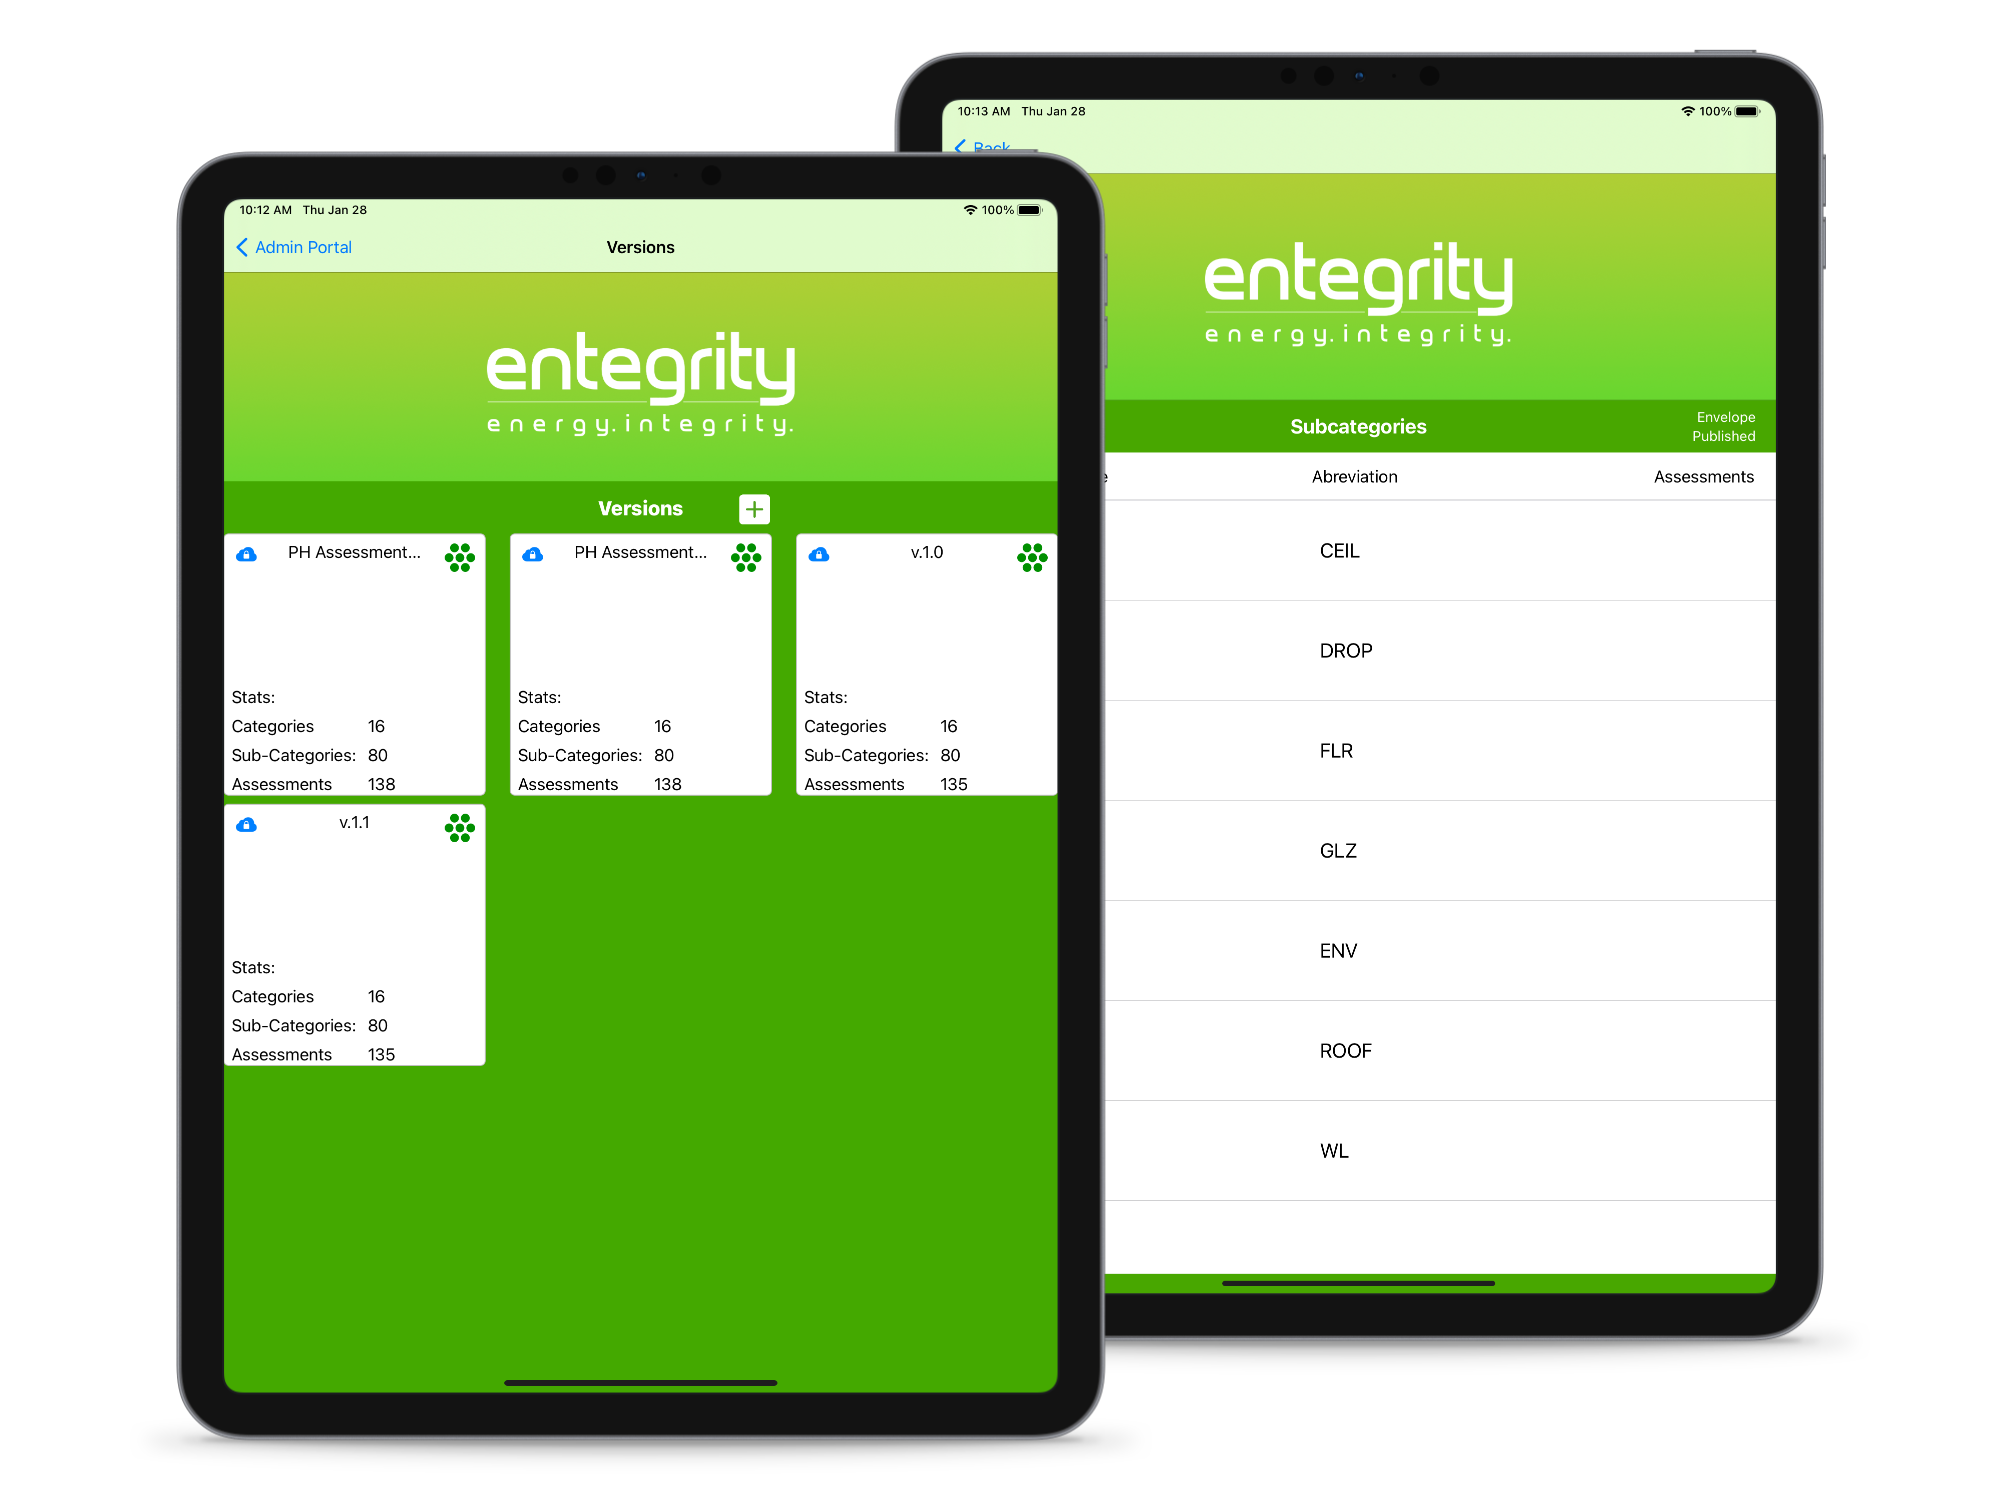
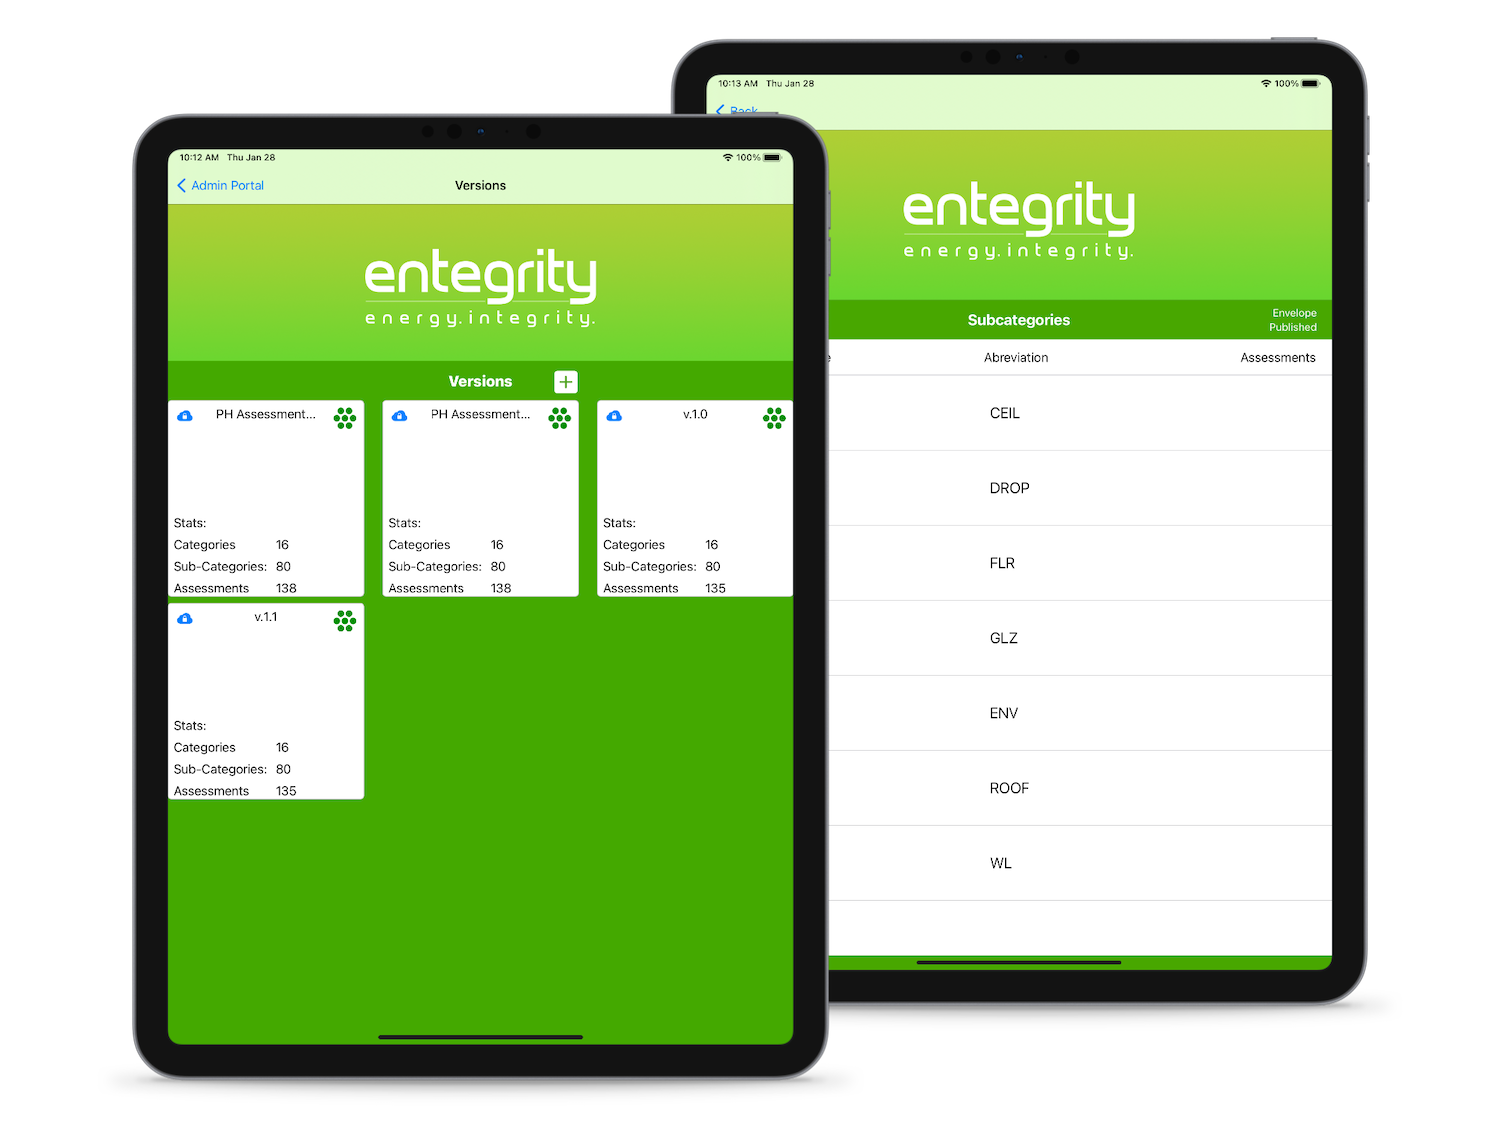
Minor updates to developer page and reduce size of images

diff --git a/public/template/developer.html b/public/template/developer.html
@@ -29,11 +29,18 @@
     <div class="row pr-4 pl-4 pt-5">
         <div class="col-lg-10">
             <h1>Education</h1>
+            <h3>University of Central Arkansas</h3>
             <ul>
-                <li>University of Central Arkansas, Conway, AR</li>
+                <li>Conway, AR</li>
                 <li>Anticipated Graduation: <em>May 2021</em></li>
-                <li>Bachelor of Science</li>
-                <li>Major: Computer Science &#8212; GPA: 3.919 &#8212; Senior</li>
+                <li>Bachelor of Science &#8212; Computer Science &#8212; GPA: 3.921 &#8212; Senior</li>
+            </ul>
+
+            <h3>Arkansas Coding Academy</h3>
+            <ul>
+                <li>Conway, AR</li>
+                <li>Graduated December 2020</li>
+                <li>Course &#8212; Java & SQL Full Stack</li>
             </ul>
         </div>
         <div class="col-lg-2">
@@ -55,26 +62,28 @@
                 <li>Swift</li>
                 <li>C++</li>
                 <li>Objective-C</li>
-                <li>CSS</li>
                 <li>HTML</li>
+                <li>CSS</li>
+                <li>SCSS</li>
                 <li>JavaScript</li>
                 <li>PHP</li>
                 <li>MySQL</li>
                 <li>Python</li>
+                <li>Dart</li>
+                <li>Kotlin</li>
             </ul>
         </div>
         <div class="col-lg-6">
-            <h2>Environments</h2>
+            <h2>Frameworks</h2>
             <ul>
-                <li>Xcode</li>
-                <li>JetBrains IntelliJ Ultimate</li>
-                <li>Eclipse</li>
                 <li>Apache HTTP Server</li>
                 <li>Apache Tomcat</li>
+                <li>Flutter</li>
                 <li>NodeJS</li>
                 <li>AngularJS</li>
                 <li>JQuery</li>
                 <li>Bootstrap</li>
+                <li>RESTful Web Services</li>
             </ul>
         </div>
     </div>
@@ -83,14 +92,20 @@
         <div class="col-lg-6">
             <h2>Tools & Services</h2>
             <ul>
+                <li>Xcode</li>
+                <li>JetBrains IntelliJ Ultimate</li>
+                <li>Eclipse</li>
+                <li>CocoaPods</li>
                 <li>Git</li>
                 <li>GitHub</li>
                 <li>SSH</li>
                 <li>FTP</li>
                 <li>Linux</li>
+                <li>Maven</li>
                 <li>AWS Elastic Beanstalk</li>
                 <li>Google Firebase</li>
                 <li>Google Cloud Platform Compute Engine</li>
+                <li>Postman</li>
                 <li>JIRA</li>
                 <li>Slack</li>
             </ul>
@@ -115,13 +130,25 @@
             <h2 class="pt-3">Chemistry Connection</h2>
             <p>Conway, AR: Web Designer &#8212; <em>2016 - present</em></p>
             <ul>
-                <li>Update product descriptions, prices, and SEO metadata and list new products</li>
-                <li>Maintain the front-end design of the online store using the BigCommerce API</li>
-                <li>Build and maintain a full stack software solution for managing and hosting PDFs of safety and technical
-                    information of products
+                <li>Maintaining the front-end design of the online store using the BigCommerce API and
+                    Stencil CLI</li>
+                <li>Enhancing employee productivity by building and maintaining a full stack software solution
+                    for managing and hosting PDFs of safety and technical information of products
                 </li>
-                <li>Photograph and edit photos for products for use on the website and social media</li>
-                <li>Produce tutorial videos involving products for social media</li>
+                <li>Boosting sales and overall profits by photographing and editing photos for products for use
+                    on the website and social media as well as updating product descriptions and SEO metadata.</li>
+                <li>Amplifying online presence by producing tutorial videos involving products for social media</li>
+            </ul>
+
+            <h2 class="pt-3">Arkansas Coding Academy</h2>
+            <p>Conway, AR: Teaching Assistant &#8212; <em>2020 - present</em></p>
+            <ul>
+                <li>Auditing the Java & SQL Full Stack course in order to become familiar with the structure</li>
+                <li>Enhancing student performance by providing supplemental after-hours instruction and assistance
+                    for students enrolled in the Java & SQL Full Stack course</li>
+                <li>Increasing online applications by improving the design of web pages on the academy’s WordPress website</li>
+                <li>Improving the academy’s online presence and student engagement by producing video curriculum for
+                    additional instructional resources</li>
             </ul>
 
             <h2 class="pt-3">MobX</h2>
@@ -131,16 +158,23 @@
                 <li>Researched options for incorporating machine learning to categorize images and text posts</li>
             </ul>
 
+            <h2 class="pt-3">Royer Ramirez</h2>
+            <p>iOS Developer Contractor &#8212; <em>Summer 2020</em></p>
+            <ul>
+                <li>Designed and implemented core features based off of the model-view-controller design
+                    paradigm</li>
+                <li>Used the Google Firebase Realtime Database API to synchronize data across devices</li>
+            </ul>
+
             <h2 class="pt-3">City of Hope Outreach</h2>
             <p>Conway, AR: Volunteer Project &#8212; <em>2018 - present</em></p>
             <ul>
                 <li>Built a full stack web and mobile resource database, providing information for local non-profits and
                     social services
                 </li>
-                <li>The iOS version was released in March 2019</li>
-                <li>The Android version is currently in closed beta</li>
+                <li>The iOS version, built natively on iOS with Swift was released in early 2019</li>
+                <li>The Android version, built with the Flutter mobile framework, was released early 2021</li>
             </ul>
         </div>
     </div>
 </div>
-
